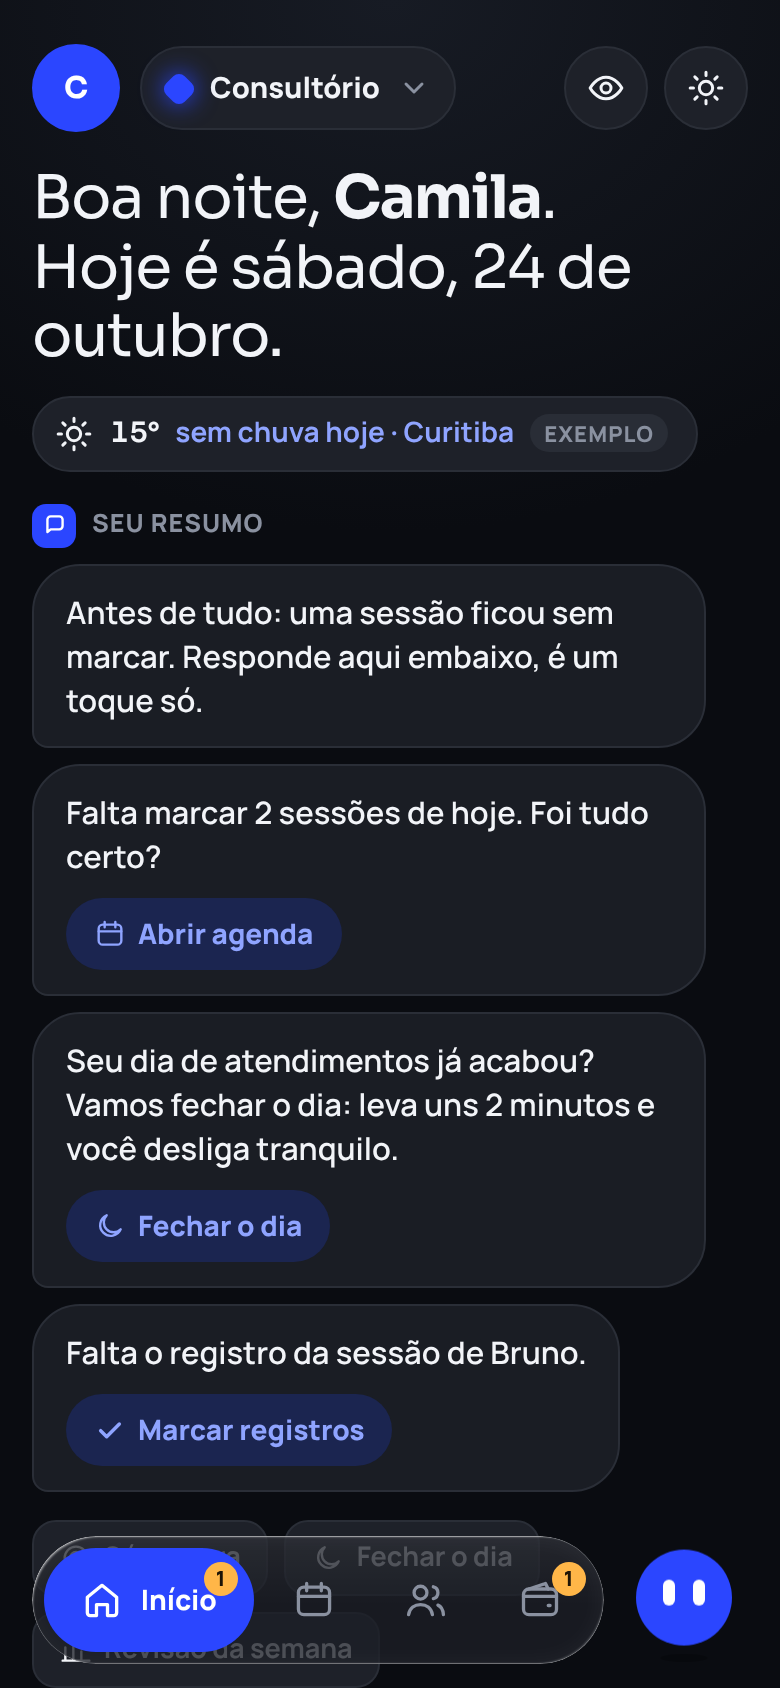
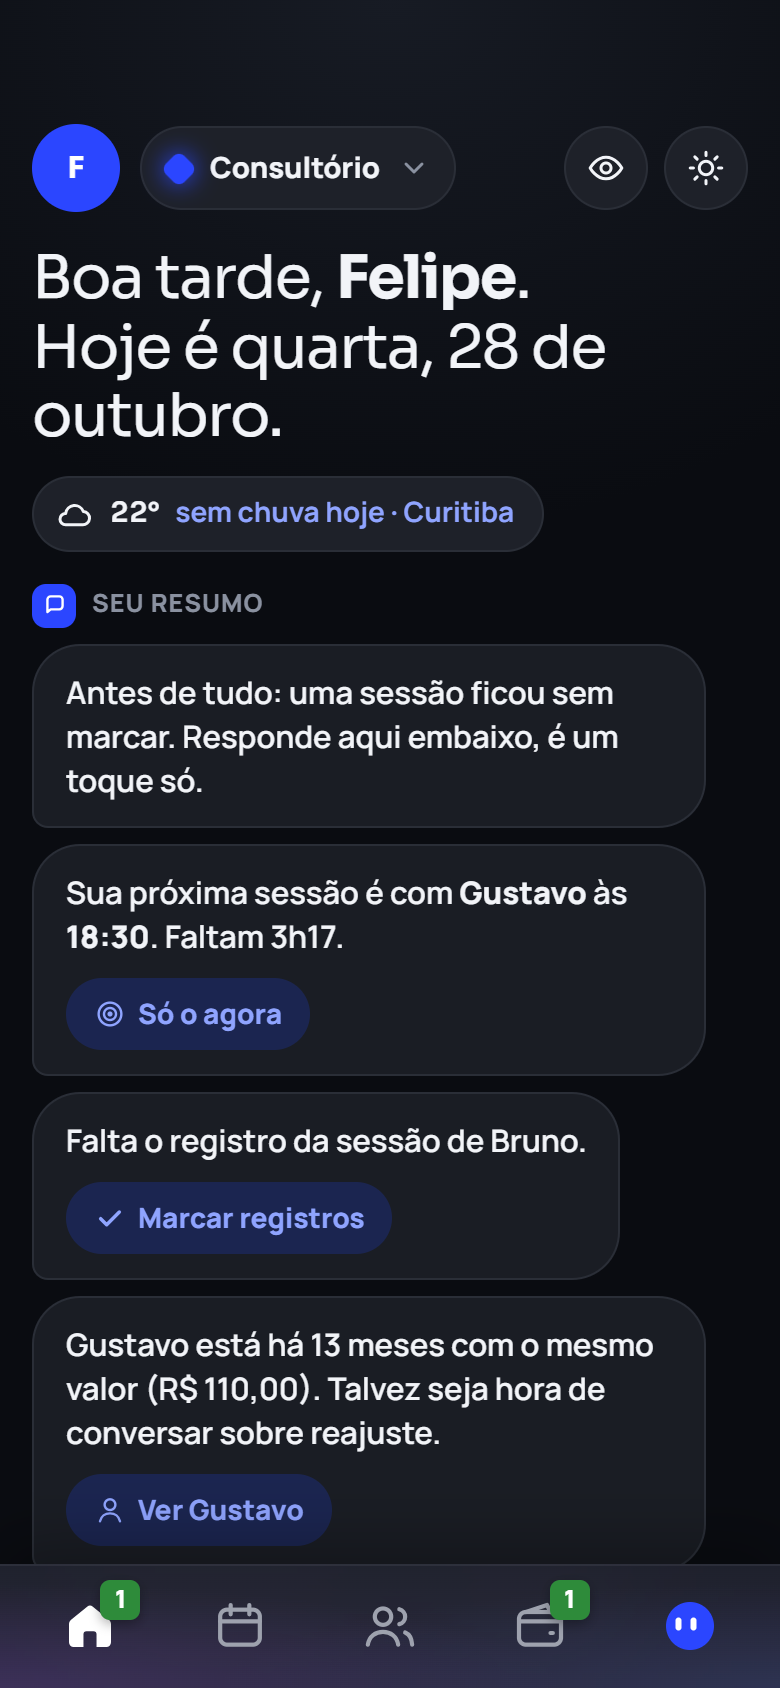
Landing com imagens novas do app, demo como Felipe e rótulos sem o traço
O paciente principal do demo passa a ser Gustavo Andrade, para não ter o mesmo nome de quem usa.

diff --git a/src/App.jsx b/src/App.jsx
@@ -65,7 +65,7 @@ const CAT_ENTRADA = [
 const AVISOS_PADRAO_DEMO = { ativo: true, antecedencia: 15, som: true };
 // Respostas das perguntas iniciais da conta de demonstração
 const PERFIL_DEMO = { reserva: 15, falta: { cobrar: true, horas: 24 }, registro: true, horaIni: 8, horaFim: 20, diasTrab: [1, 2, 3, 4, 5], nascimento: "1993-03-14", profissao: "Psicologia", termo: "Paciente", duracao: 50, valorPadrao: 110, subPadrao: 25, subTipo: "fixed", meta: 4000, estilo: "detalhado", pessoal: true, cidade: "Curitiba", avisos: AVISOS_PADRAO_DEMO };
-const CONTA_DEMO = { nome: "Camila", email: "demo@consultorio.app", demo: true, perfil: PERFIL_DEMO };
+const CONTA_DEMO = { nome: "Felipe", email: "demo@consultorio.app", demo: true, perfil: PERFIL_DEMO };
 const PROFISSOES = [
   { id: "Psicologia", termo: "Paciente" }, { id: "Psicanálise", termo: "Analisando" }, { id: "Psiquiatria", termo: "Paciente" },
   { id: "Terapia ocupacional", termo: "Paciente" }, { id: "Fonoaudiologia", termo: "Paciente" }, { id: "Nutrição", termo: "Paciente" },
@@ -1359,7 +1359,7 @@ function exemplo() {
   const t = todayISO();
   const ses = (pid, off, price, sublet, extra = {}) => ({ id: uid(), patientId: pid, date: addDays(t, off), price, sublet, status: "done", chargeId: null, registro: true, ...extra });
   const patients = [
-    { id: "p1", name: "Felipe Andrade", phone: "", color: "azul", price: 110, sublet: 25, subletType: "fixed", freq: 14, time: "18:30", billing: "package", packageSize: 4, nextDate: t, active: true },
+    { id: "p1", name: "Gustavo Andrade", phone: "", color: "azul", price: 110, sublet: 25, subletType: "fixed", freq: 14, time: "18:30", billing: "package", packageSize: 4, nextDate: t, active: true },
     { id: "p2", name: "Marcos Lima", phone: "", color: "laranja", price: 130, sublet: 20, subletType: "percent", freq: 7, time: "10:00", billing: "package", packageSize: 4, nextDate: addDays(t, -1), active: true },
     { id: "p3", name: "Ana Souza", phone: "", color: "rosa", price: 150, sublet: 30, subletType: "fixed", freq: 7, time: "14:00", billing: "session", packageSize: 4, nextDate: addDays(t, 2), active: true },
     { id: "p4", name: "Júlia Prado", phone: "", color: "verde", price: 180, sublet: 0, subletType: "fixed", freq: 28, time: "09:00", billing: "session", packageSize: 4, nextDate: addDays(t, 10), active: true },

diff --git a/src/landing.css b/src/landing.css
@@ -70,8 +70,7 @@ section { position: relative; padding: 90px max(20px, env(safe-area-inset-left, 
 .sec-cab h2 { font-size: clamp(32px, 6.4vw, 56px); }
 .sec-cab p { color: var(--muted); font-size: clamp(17px, 2vw, 19px); margin: 16px 0 0; }
 .sec-cab.centro p { margin-left: auto; margin-right: auto; max-width: 36em; }
-.rotulo { display: inline-flex; align-items: center; gap: 8px; font-weight: 800; font-size: 14px; margin-bottom: 14px; color: var(--marca); }
-.rotulo::before { content: ""; width: 26px; height: 2px; border-radius: 2px; background: currentColor; }
+.rotulo { display: inline-flex; align-items: center; font-weight: 800; font-size: 14px; margin-bottom: 14px; color: var(--marca); }
 .rotulo.azul { color: var(--marca); } .rotulo.roxo { color: #6A48F0; } .rotulo.verde { color: #0B9463; }
 /* faixas cinza-claro alternadas, como nas páginas de banco */
 .fala, .recursos, .privacidade { background: var(--bg2); }

diff --git a/src/landing.js b/src/landing.js
@@ -59,7 +59,7 @@ if (conversa) {
   const ex = [
     // a logo da empresa vem do ícone do próprio site, como no app
     { f: "gastei 30 reais no uber", t: "Uber", s: "Transporte · Hoje", v: "R$ 30,00", logo: "uber.com" },
-    { f: "Felipe veio e pagou", t: "Felipe Andrade", s: "Sessão marcada · pago", v: "✓", ic: "FA", cor: "#4A62FF" },
+    { f: "Gustavo veio e pagou", t: "Gustavo Andrade", s: "Sessão marcada · pago", v: "✓", ic: "GA", cor: "#4A62FF" },
     { f: "paguei 120 de luz ontem", t: "Luz", s: "Casa · Ontem", v: "R$ 120,00", ic: "⌂", cor: "#2F4AD9" },
     { f: "remarca a Júlia pra quinta às 15h", t: "Júlia Prado", s: "Remarcada · qui às 15:00", v: "↻", ic: "JP", cor: "#8B6CFF" },
   ];
